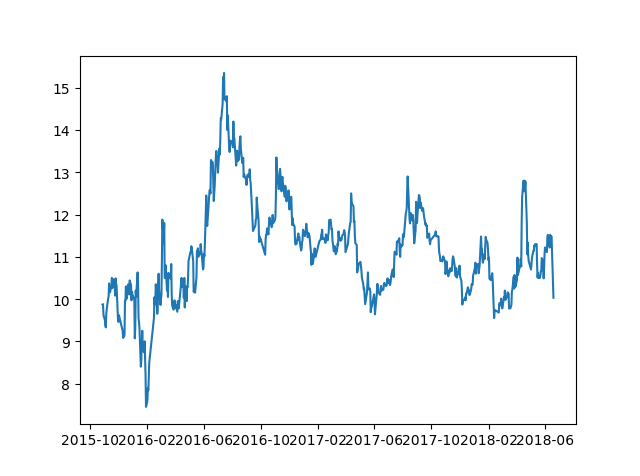
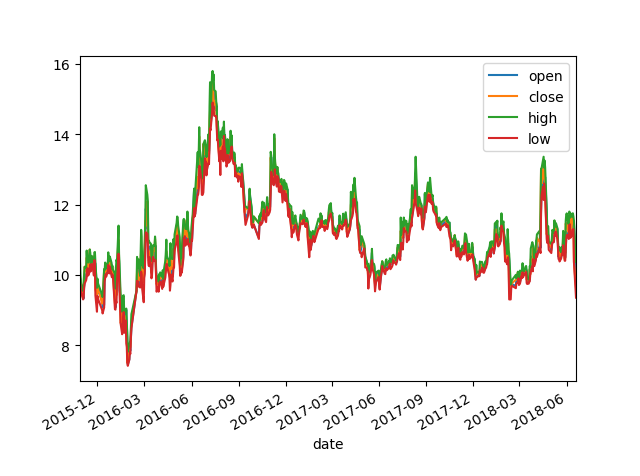
add

diff --git a/Python.md b/Python.md
@@ -137,8 +137,11 @@ print(df.dtypes)
 - 画图
 
 ~~~python
-if __name__ == "__main__": # 在主进程中画图
-    plt.plot(df['date'], df['open'])
+df.set_index('date', inplace=True)
+dfplt = df.ix[:, 0:4]
+
+if __name__ == "__main__":
+    dfplt.plot()
     plt.show()
 ~~~
 
